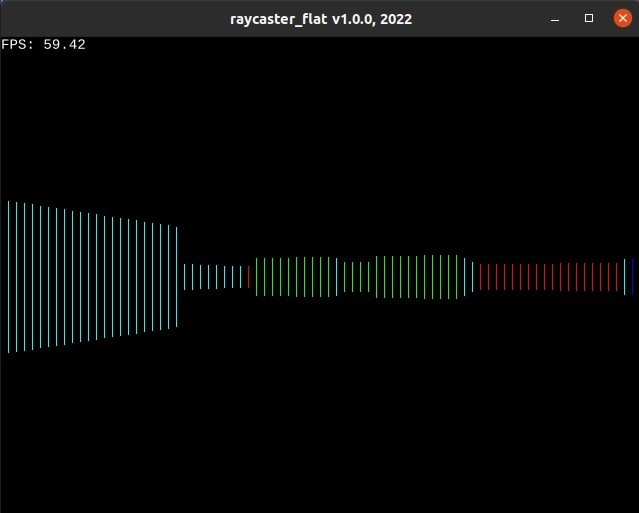
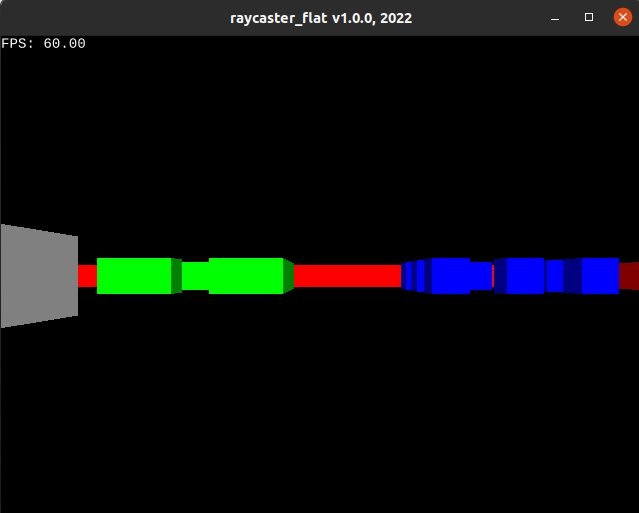
Using MeshBuilder

diff --git a/src/canvas.rs b/src/canvas.rs
@@ -12,12 +12,11 @@ impl Canvas {
         Canvas { width, height }
     }
     pub fn draw(&mut self, ctx: &mut Context, player: &mut Player, map: &mut Map) -> GameResult {
-        // step by to make it quicker
-        for x in (0..self.width).step_by(8) {
+        let mut mesh_builder = ggez::graphics::MeshBuilder::new();
+        for x in 0..self.width {
             let ray = crate::Ray::new(player, map, x, self.width, self.height);
 
-            let mesh = ggez::graphics::Mesh::new_line(
-                ctx,
+            mesh_builder.line(
                 &[
                     Point2::new(x as f32, ray.draw_start as f32),
                     Point2::new(x as f32, ray.draw_end as f32),
@@ -25,9 +24,12 @@ impl Canvas {
                 1.0,
                 ray.color,
             )?;
-
-            ggez::graphics::draw(ctx, &mesh, ggez::graphics::DrawParam::default())?;
         }
+
+        let mesh = mesh_builder.build(ctx)?;
+
+        ggez::graphics::draw(ctx, &mesh, ggez::graphics::DrawParam::default())?;
+
         Ok(())
     }
     pub fn draw_fps(&mut self, ctx: &mut Context) -> GameResult {

diff --git a/src/rayobject.rs b/src/rayobject.rs
@@ -122,7 +122,12 @@ impl Ray {
         }
         //give x and y sides different brightness
         if side == 1 {
-            color = Color::CYAN;
+            color = Color {
+                r: color.r / 2.0,
+                g: color.g / 2.0,
+                b: color.b / 2.0,
+                a: 1.0,
+            };
         }
         //draw the pixels of the stripe as a vertical line
         Ray {
